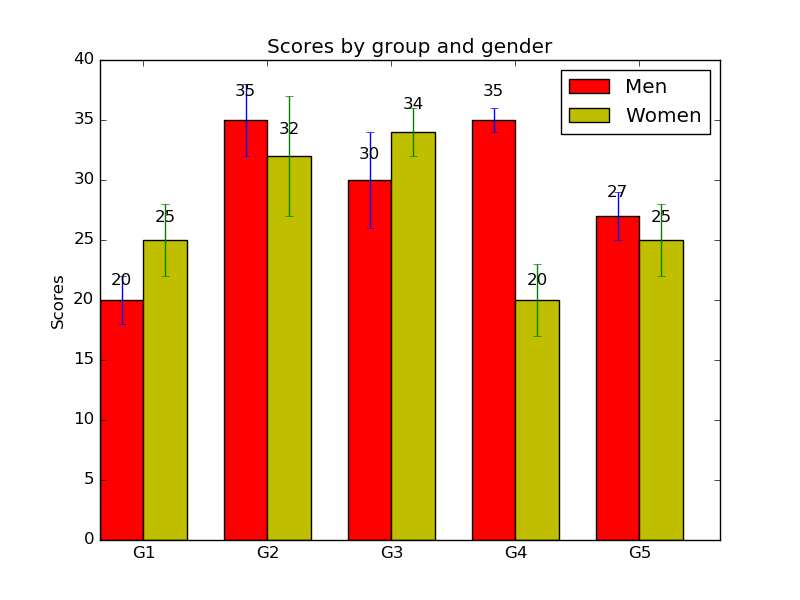
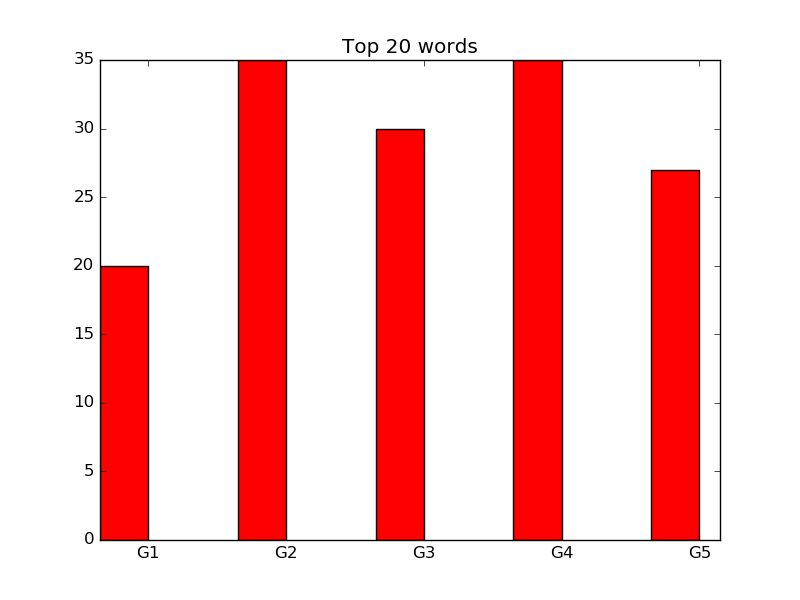
new plot

diff --git a/exercise_2/plot.py b/exercise_2/plot.py
@@ -5,36 +5,20 @@ import matplotlib.pyplot as plt
 
 N = 5
 menMeans = (20, 35, 30, 35, 27)
-menStd = (2, 3, 4, 1, 2)
 
 ind = np.arange(N)  # the x locations for the groups
 width = 0.35       # the width of the bars
 
 fig, ax = plt.subplots()
-rects1 = ax.bar(ind, menMeans, width, color='r', yerr=menStd)
+rects1 = ax.bar(ind, menMeans, width, color='r')
 
-womenMeans = (25, 32, 34, 20, 25)
-womenStd = (3, 5, 2, 3, 3)
-rects2 = ax.bar(ind + width, womenMeans, width, color='y', yerr=womenStd)
-
-# add some text for labels, title and axes ticks
-ax.set_ylabel('Scores')
-ax.set_title('Scores by group and gender')
+ax.set_title('Top 20 words')
 ax.set_xticks(ind + width)
+
+
 ax.set_xticklabels(('G1', 'G2', 'G3', 'G4', 'G5'))
 
-ax.legend((rects1[0], rects2[0]), ('Men', 'Women'))
 
-
-def autolabel(rects):
-    # attach some text labels
-    for rect in rects:
-        height = rect.get_height()
-        ax.text(rect.get_x() + rect.get_width()/2., 1.05*height,
-                '%d' % int(height),
-                ha='center', va='bottom')
-
-autolabel(rects1)
-autolabel(rects2)
 plt.savefig('plot.png')
 plt.show()
+
